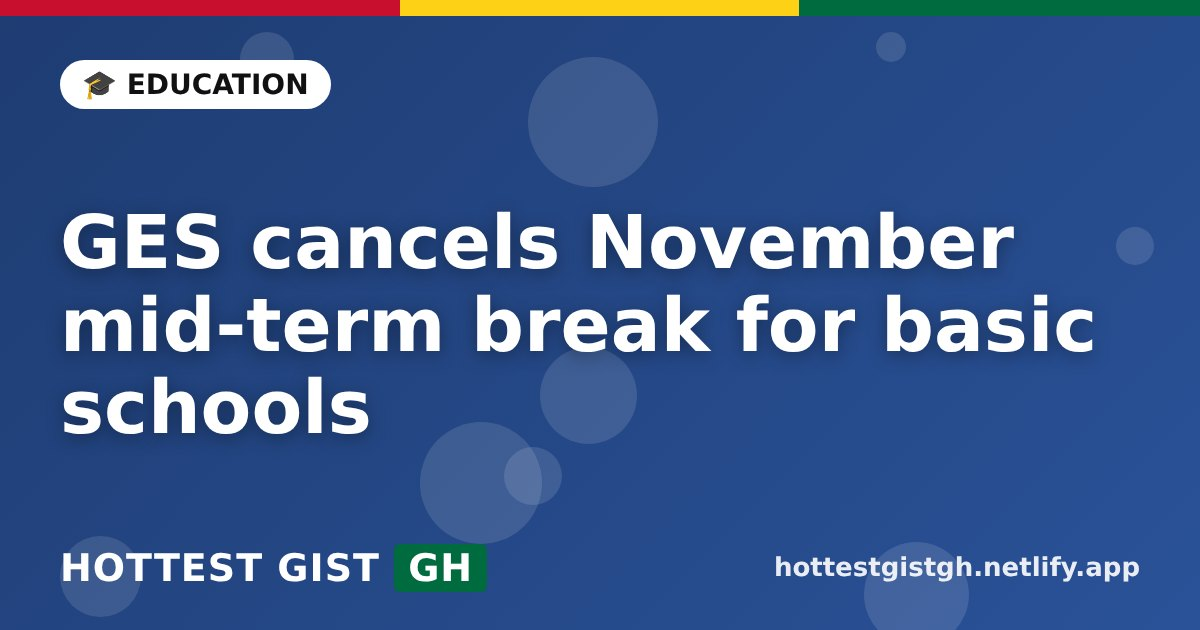
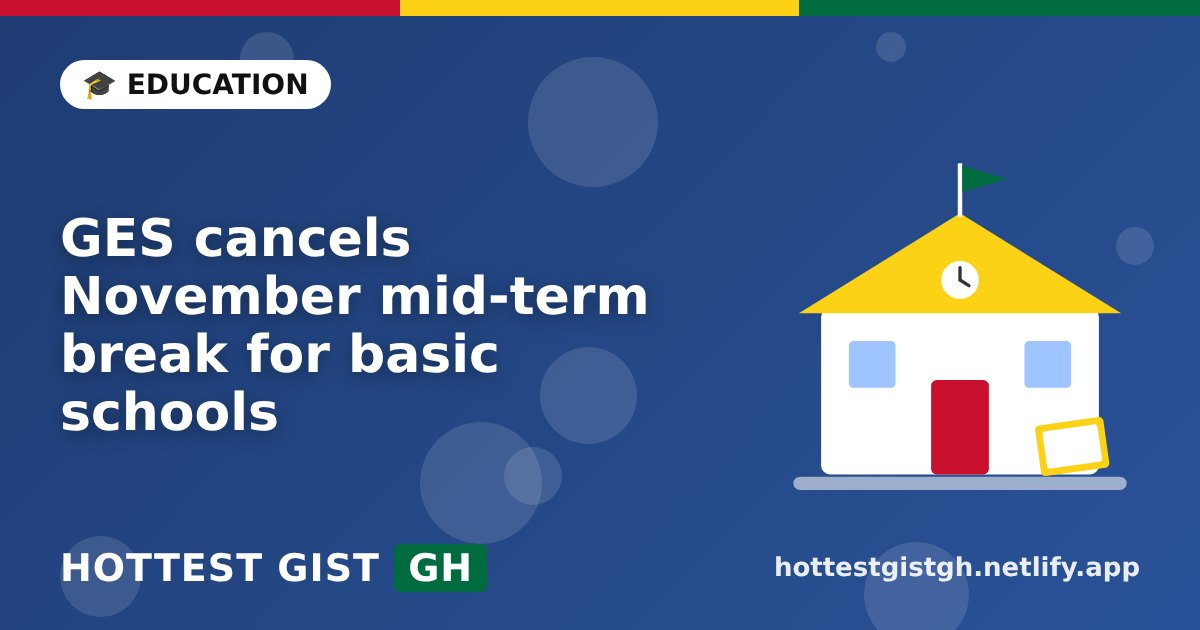
Topic illustrations on cover pictures (school, gold, stage, globe, more)
Claude-Session: https://claude.ai/code/session_01BXd4B9AEnZGQEtneuyL2Ve

Changed region(s): [[0.0308, 0.2714, 0.9558, 0.7841]]

diff --git a/tools/cover.py b/tools/cover.py
@@ -20,6 +20,59 @@ EMOJI = {"Afrobeats": "🔥", "Highlife": "🎺", "Hiplife": "🎤", "Gospel": "
          "TV": "📺", "Celebrity": "⭐", "Events": "🎟", "Reviews": "🎧",
          "News": "📰", "Trending": "📈", "Sports": "⚽", "Business": "💰", "Tech": "💻", "Lifestyle": "✨", "Education": "🎓"}
 
+
+ART = {
+"school": """<rect x="55" y="160" width="250" height="150" rx="8" fill="#fff"/>
+<polygon points="35,165 180,75 325,165" fill="#fcd116"/>
+<rect x="154" y="225" width="52" height="85" rx="5" fill="#c8102e"/>
+<rect x="80" y="190" width="42" height="42" rx="4" fill="#9ec5ff"/><rect x="238" y="190" width="42" height="42" rx="4" fill="#9ec5ff"/>
+<circle cx="180" cy="135" r="17" fill="#fff"/><path d="M180 124v11l8 5" stroke="#333" stroke-width="3" fill="none" stroke-linecap="round"/>
+<rect x="178" y="30" width="4" height="48" fill="#fff"/><polygon points="182,32 222,44 182,56" fill="#006b3f"/>
+<rect x="30" y="312" width="300" height="12" rx="6" fill="rgba(255,255,255,.55)"/>
+<rect x="250" y="262" width="62" height="46" rx="4" fill="#fcd116" transform="rotate(-8 280 285)"/><rect x="256" y="268" width="50" height="34" rx="3" fill="#fff" transform="rotate(-8 280 285)"/>""",
+"gold": """<polygon points="40,290 70,230 190,230 220,290" fill="#fcd116"/><polygon points="130,230 160,170 280,170 310,230" fill="#f7b500"/><polygon points="70,230 100,170 190,170 160,230" fill="#ffe27a"/>
+<polygon points="95,170 120,115 215,115 190,170" fill="#fcd116"/>
+<circle cx="285" cy="285" r="38" fill="#fcd116"/><circle cx="285" cy="285" r="28" fill="none" stroke="#c98a00" stroke-width="5"/><text x="285" y="297" font-size="34" font-weight="800" text-anchor="middle" fill="#c98a00" font-family="DejaVu Sans">$</text>
+<circle cx="60" cy="150" r="26" fill="#fcd116"/><circle cx="60" cy="150" r="18" fill="none" stroke="#c98a00" stroke-width="4"/>
+<path d="M240 90l6 16 17 1-13 11 4 17-14-10-15 10 5-17-13-11 17-1z" fill="#fff"/>""",
+"stage": """<polygon points="180,20 90,330 270,330" fill="rgba(255,255,255,.22)"/>
+<ellipse cx="180" cy="326" rx="140" ry="18" fill="rgba(0,0,0,.28)"/>
+<circle cx="180" cy="130" r="38" fill="#fff"/>
+<path d="M105 320c0-70 30-135 75-135s75 65 75 135z" fill="#fff"/>
+<rect x="212" y="122" width="12" height="62" rx="6" fill="#222" transform="rotate(18 218 150)"/><circle cx="229" cy="112" r="15" fill="#222" transform="rotate(18 218 150)"/>
+<path d="M205 185l30-25" stroke="#fff" stroke-width="16" stroke-linecap="round"/>
+<g fill="#fcd116"><circle cx="50" cy="90" r="10"/><rect x="58" y="40" width="5" height="52"/><path d="M63 40q28 8 30 30"/></g>
+<g fill="#fff"><circle cx="305" cy="70" r="9"/><rect x="311" y="22" width="5" height="50"/></g>
+<path d="M40 40l5 12 13 1-10 9 3 13-11-7-11 7 3-13-10-9 13-1z" fill="#fcd116"/>""",
+"mic": """<rect x="140" y="40" width="80" height="140" rx="40" fill="#fff"/><path d="M110 150a70 70 0 0 0 140 0" stroke="#fff" stroke-width="14" fill="none" stroke-linecap="round"/>
+<rect x="172" y="220" width="16" height="60" fill="#fff"/><rect x="125" y="280" width="110" height="16" rx="8" fill="#fff"/>
+<g stroke="rgba(0,0,0,.2)" stroke-width="5"><path d="M150 80h60M150 105h60M150 130h60"/></g>
+<g fill="#fcd116"><circle cx="55" cy="95" r="12"/><rect x="64" y="40" width="6" height="58"/><circle cx="305" cy="125" r="12"/><rect x="314" y="70" width="6" height="58"/></g>""",
+"globe": """<circle cx="180" cy="180" r="130" fill="#fff"/><g fill="none" stroke="#1d6fb8" stroke-width="7"><ellipse cx="180" cy="180" rx="60" ry="130"/><path d="M50 180h260M65 115h230M65 245h230"/></g>
+<path d="M150 90l30-20 35 10 10 35-30 10-15 30-30-10z" fill="#006b3f"/><path d="M190 200l40 5 10 40-30 25-25-30z" fill="#006b3f"/>
+<polygon points="300,40 308,62 331,62 313,76 320,98 300,85 280,98 287,76 269,62 292,62" fill="#fcd116"/>""",
+"film": """<rect x="40" y="130" width="280" height="190" rx="12" fill="#fff"/><rect x="40" y="80" width="280" height="55" rx="8" fill="#222"/>
+<g fill="#fff"><polygon points="60,82 100,82 80,133 40,133"/><polygon points="130,82 170,82 150,133 110,133"/><polygon points="200,82 240,82 220,133 180,133"/><polygon points="270,82 310,82 290,133 250,133"/></g>
+<polygon points="150,190 150,270 220,230" fill="#c8102e"/>""",
+"ball": """<circle cx="180" cy="180" r="130" fill="#fff"/><polygon points="180,120 225,152 208,205 152,205 135,152" fill="#222"/>
+<g stroke="#222" stroke-width="6"><path d="M180 120V55M225 152l55-25M208 205l35 50M152 205l-35 50M135 152L80 127"/></g>
+<g fill="#222"><polygon points="180,40 205,58 195,86 165,86 155,58"/><polygon points="298,118 310,150 292,172 268,160 270,130"/><polygon points="62,118 90,130 92,160 68,172 50,150"/></g>""",
+"tech": """<rect x="70" y="90" width="220" height="150" rx="12" fill="#fff"/><rect x="85" y="105" width="190" height="120" rx="6" fill="#0b3d91"/>
+<path d="M40 250h280l-20 36H60z" fill="#fff"/><g fill="#fcd116"><path d="M130 140l-25 25 25 25" stroke="#fcd116" stroke-width="10" fill="none" stroke-linecap="round"/><path d="M230 140l25 25-25 25" stroke="#fcd116" stroke-width="10" fill="none" stroke-linecap="round"/></g>""",
+"tv": """<rect x="45" y="80" width="270" height="190" rx="16" fill="#fff"/><rect x="62" y="97" width="236" height="156" rx="8" fill="#12263f"/>
+<polygon points="160,140 160,210 220,175" fill="#fff"/><path d="M130 70l50 -40 50 40" stroke="#fff" stroke-width="8" fill="none" stroke-linecap="round"/><rect x="120" y="270" width="120" height="14" rx="7" fill="#fff"/>""",
+"ticket": """<path d="M40 110h280v50a22 22 0 0 0 0 44v50H40v-50a22 22 0 0 0 0-44z" fill="#fff"/><path d="M240 110v140" stroke="#c8102e" stroke-width="5" stroke-dasharray="12 10"/>
+<path d="M110 150l12 26 28 3-21 19 6 28-25-14-25 14 6-28-21-19 28-3z" fill="#fcd116"/>""",
+}
+def pick_art(title, cat):
+    t = title.lower()
+    if any(k in t for k in ("school", "ges ", "education", "teacher", "student", "exam", "wassce", "university")): return "school"
+    if any(k in t for k in ("gold", "cedi", "fx", "bank", "economy", "price", "inflation", "budget")): return "gold"
+    if any(k in t for k in ("concert", "live", "tour", "festival", "show")): return "stage"
+    if any(k in t for k in ("ticket",)): return "ticket"
+    return {"Education":"school","Business":"gold","Events":"ticket","News":"globe","Trending":"globe","Movies":"film","TV":"tv",
+            "Sports":"ball","Tech":"tech","Afrobeats":"mic","Highlife":"mic","Hiplife":"mic","Gospel":"mic","Reviews":"mic","Celebrity":"stage","Lifestyle":"globe"}.get(cat,"mic")
+
 def make(title, cat, out):
     a, b = PAL.get(cat, ("#c8102e", "#006b3f"))
     e = EMOJI.get(cat, "🎶")
@@ -28,13 +81,15 @@ def make(title, cat, out):
     dots = "".join(
         f'<i style="left:{random.randint(2,96)}%;top:{random.randint(4,90)}%;width:{(s:=random.randint(30,150))}px;height:{s}px"></i>'
         for _ in range(9))
-    size = 74 if len(title) < 55 else 60 if len(title) < 85 else 50
+    size = 62 if len(title) < 40 else 52 if len(title) < 62 else 44 if len(title) < 90 else 38
+    art = ART[pick_art(title, cat)]
     page = f"""<html><body style="margin:0"><div style="width:1200px;height:630px;position:relative;overflow:hidden;
     background:linear-gradient(135deg,{a},{b});font-family:'Anton','Impact','DejaVu Sans',sans-serif;color:#fff">
     <style>i{{position:absolute;border-radius:50%;background:rgba(255,255,255,.12)}}</style>{dots}
     <div style="position:absolute;top:0;left:0;right:0;height:16px;background:linear-gradient(90deg,#c8102e 33.3%,#fcd116 33.3% 66.6%,#006b3f 66.6%)"></div>
     <div style="position:absolute;left:60px;top:60px;background:#fff;color:#111;font:800 28px 'DejaVu Sans',sans-serif;padding:8px 22px;border-radius:40px">{e} {html.escape(cat.upper())}</div>
-    <div style="position:absolute;left:60px;right:60px;top:150px;bottom:130px;display:flex;align-items:center;
+    <svg viewBox="0 0 360 360" style="position:absolute;right:40px;top:130px;width:400px;height:400px">{art}</svg>
+    <div style="position:absolute;left:60px;right:480px;top:150px;bottom:130px;display:flex;align-items:center;
       font:800 {size}px/1.12 'DejaVu Sans',sans-serif;text-shadow:0 4px 18px rgba(0,0,0,.35)">{html.escape(title)}</div>
     <div style="position:absolute;left:60px;bottom:40px;font:800 38px 'DejaVu Sans',sans-serif;letter-spacing:1px">HOTTEST GIST <span style="background:#006b3f;padding:2px 14px;border-radius:6px">GH</span></div>
     <div style="position:absolute;right:60px;bottom:48px;font:700 26px 'DejaVu Sans',sans-serif;opacity:.9">hottestgistgh.netlify.app</div>
